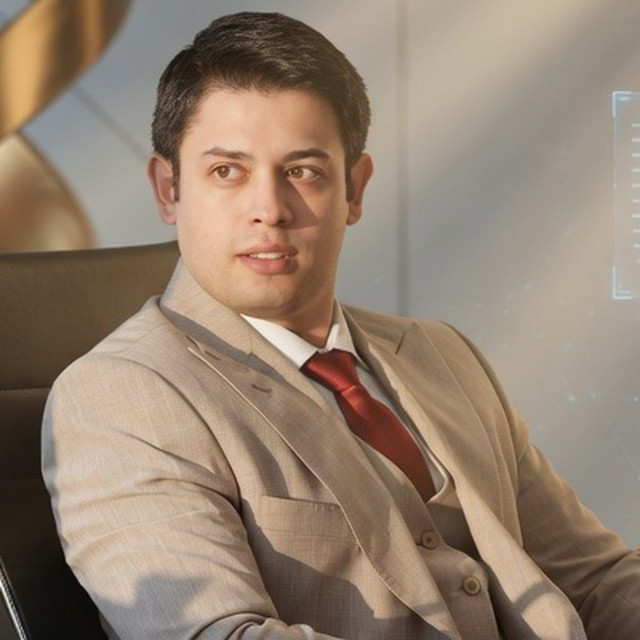
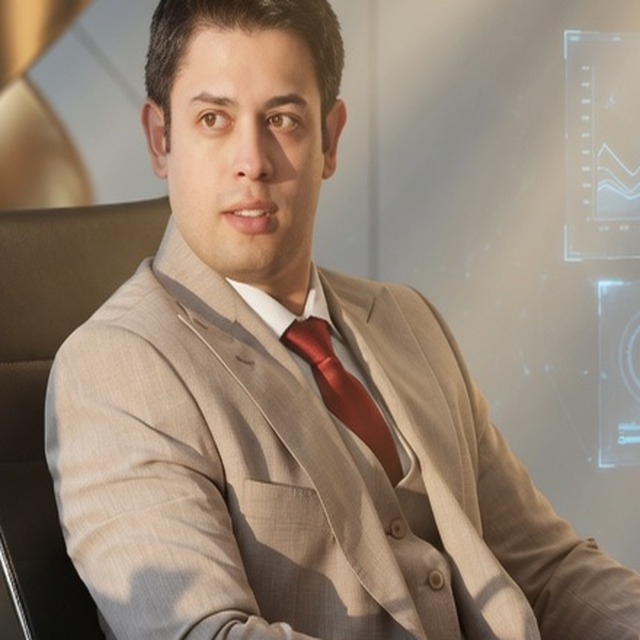
Reenquadra foto de perfil: rosto mais alto, mais terno no círculo

diff --git a/index.html b/index.html
@@ -259,7 +259,7 @@
             <div class="bg-gray-50 rounded-2xl p-6 md:p-12 shadow-md flex flex-col md:flex-row items-center gap-8 md:gap-10 border border-gray-100">
                 <div class="md:w-1/3 flex justify-center">
                     <div class="w-40 h-40 md:w-48 md:h-48 rounded-full bg-brand-dark border-4 border-brand-gold shadow-lg relative overflow-hidden">
-                        <img src="pedro-perfil.jpg" alt="Pedro Teixeira" class="absolute inset-0 w-full h-full object-cover" style="object-position: center 58%">
+                        <img src="pedro-perfil.jpg" alt="Pedro Teixeira" class="absolute inset-0 w-full h-full object-cover" style="object-position: center 55%">
                     </div>
                 </div>
                 <div class="md:w-2/3 text-center md:text-left">
